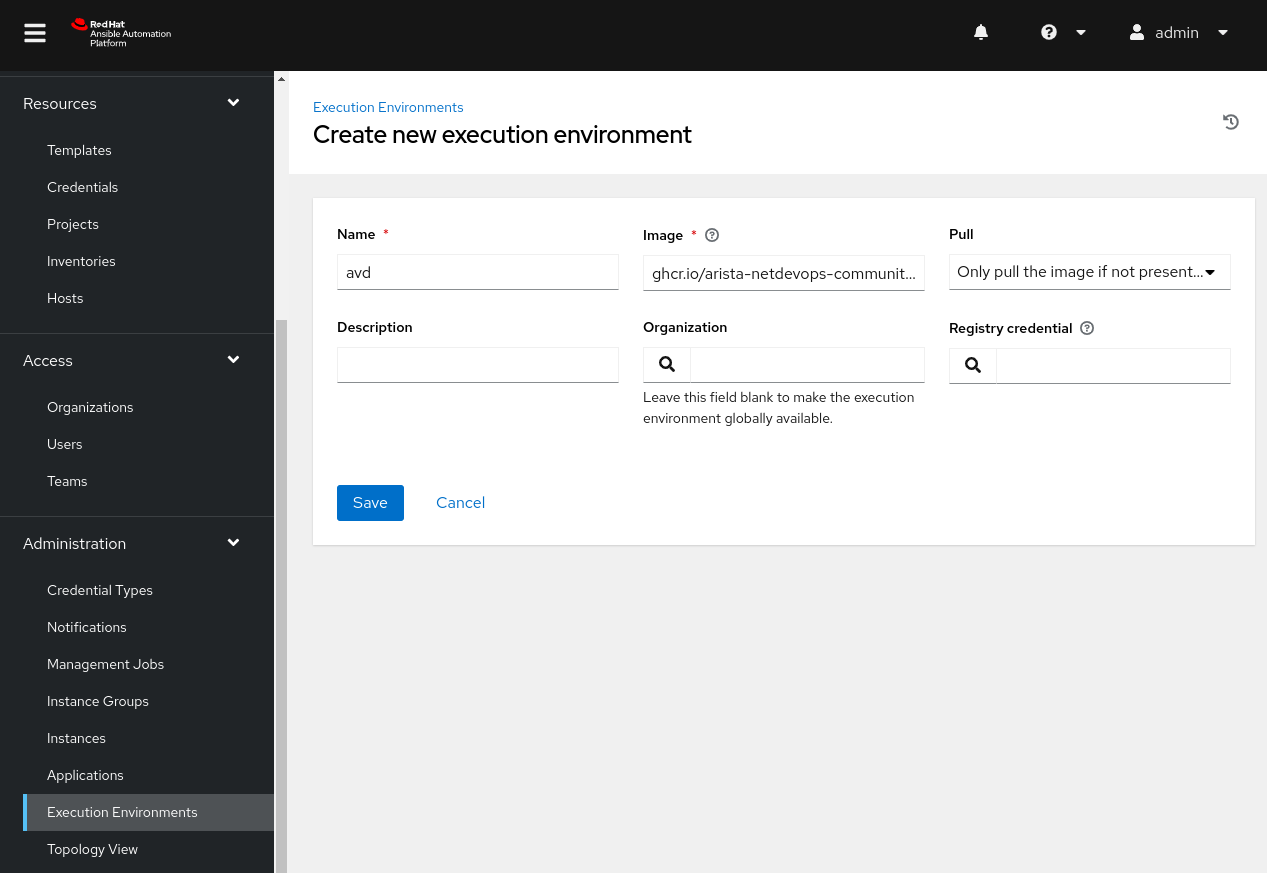
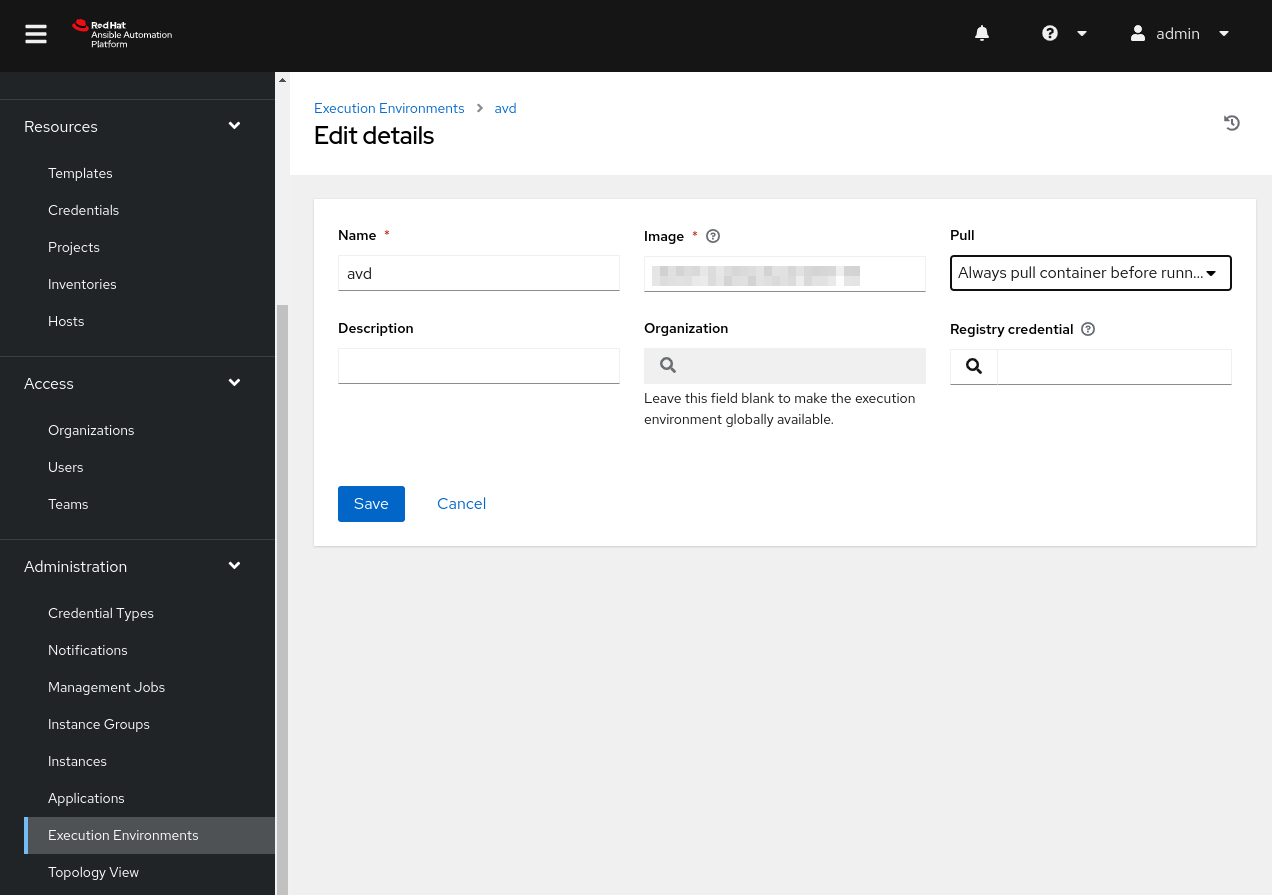
Updating index name, images, builder docs

diff --git a/ansible_collections/arista/avd/docs/getting-started/avd-aap.md b/ansible_collections/arista/avd/docs/getting-started/avd-aap.md
@@ -20,7 +20,7 @@ Please note, that this guide leverages AAP version 2.4. The workflows should be 
 
 ## Topology
 
-Our topology leverages two spines and four leaf nodes to create a layer three leaf spine topology. The topology is managed by Arista CloudVision Portal (CVP). There will also be an example of running any provisioning tasks directly on the EOS nodes. In our case, the EOS nodes are constantly streaming to CVP and gives us the ability to provision the nodes with CVP. AAP will act as our controller to communicate any updates to CVP, which can then push the updates to our topology.
+Our topology leverages two spines and four leaf nodes to create a layer three leaf spine topology. The topology is managed by Arista CloudVision Portal (CVP). In our case, the EOS nodes are constantly streaming to CVP and gives us the ability to provision the nodes with CVP. AAP will act as our controller to communicate any updates to CVP, which can then push the updates to our topology.
 
 ![Topology leveraging Ansible Automation Platform to communicate with CloudVision](../_media/getting-started/aap-avd/aap-cvp-eos.svg)
 
@@ -36,11 +36,113 @@ The image below provides an excellent overview of the AAP dashboard. From one pa
 
 ![AAP Dashboard](../_media/getting-started/aap-avd/aap-dashboardpng.png)
 
-## Execution environments
+## Execution environments with Ansible Builder
 
-Execution environments (EEs) are Red Hat's solution for managing project dependencies. In the past, we used Python virtual environments. The Python virtual environments had pros and cons, but EEs leverage containers to wrap all dependencies within a container. EEs make environments more portable and quicker to replicate between AAP nodes and standalone projects.
+Execution environments (EEs) are Red Hat's solution for managing project dependencies. In the past, we used Python virtual environments. The Python virtual environments had pros and cons, but EEs leverage containers to wrap all dependencies within a container. EEs make environments more portable and quicker to replicate between AAP nodes and standalone projects. We will go through an EE build together but it is highly recommended to build your own for your specific requirements.
 
-This example will leverage the AVD all-in-one container to get us up and running with the required software. You may use this environment or create your own. To learn more about working with execution environments, please see the [official documentation](https://docs.ansible.com/ansible/latest/getting_started_ee/index.html).
+### Ansible Builder
+
+Ansible Builder is a tool developed by the Ansible team to aid in creating EEs. Like any tool, there are a few requirements to get started with Ansible Builder.
+
+- A development machine with Python installed.
+- Ansible builder installed with `pip install ansible-builder`.
+- [Docker](https://docs.docker.com/engine/install/) or [Podman](https://podman.io/docs/installation) installed on the development machine.
+
+You can place the Ansible builder dependencies with your current project or leverage a separate project entirely for your EE builds. Please note that this example was created with version 4.7.1 of the AVD collection. Dependencies may change between versions.
+
+```shell
+❯ tree -I venv/
+.
+├── execution-environment.yml
+├── requirements.txt
+└── requirements.yml
+```
+
+=== "execution-environment.yml"
+
+    ```yaml
+    ---
+    version: 3 #(1)
+
+    images: #(2)
+      base_image:
+        name: quay.io/centos/centos:stream8
+
+    dependencies: #(3)
+      python_interpreter:
+        package_system: python311
+        python_path: /usr/bin/python3.11
+
+      ansible_core: #(4)
+        package_pip: ansible-core<2.17.0
+
+      ansible_runner: #(5)
+        package_pip: ansible-runner
+
+      galaxy: requirements.yml #(6)
+
+      python: requirements.txt #(7)
+
+    ```
+
+    1. We are leveraging Ansible Builder 3.x, which requires version 3 of the definition file. If you leverage an older version of Ansible Builder, you may need to use `version: 1`.
+    2. You may use any base container image. Please see the official documentation for more examples.
+    3. Specifying what version of Python we would like installed during the container build.
+    4. The version of ansible-core you need will greatly depend on your specific workflows.
+    5. The `ansible-runner` package is required when building an EE.
+    6. This is a pointer to any additional collections we want installed on our container.
+    7. This is a pointer to any additional Python packages we require for our workflow.
+
+=== "requirements.yml"
+
+    ```yaml
+    ---
+    collections: #(1)
+      - name: arista.avd
+        version: 4.7.1
+
+    ```
+
+    1. Installing the `arista.avd` collection for this workflow will ensure that any other required collections are also installed.
+
+=== "requirements.txt"
+
+    ```text
+    netaddr>=0.7.19
+    Jinja2>=3.0.0
+    treelib>=1.5.5
+    cvprac>=1.3.1
+    jsonschema>=4.5.1,<4.18
+    requests>=2.27.0
+    PyYAML>=6.0.0
+    md-toc>=7.1.0
+    deepmerge>=1.1.0
+    cryptography>=38.0.4
+    # No anta requirement until the eos_validate_state integration is out of preview.
+    # anta>=1.0.0
+    aristaproto>=0.1.1
+
+    ```
+
+    The Python dependencies were taken from the [collection installation](../../docs/installation/collection-installation.md#python-requirements-installation) instructions. Please update for your specific version of the `arista.avd` collection.
+
+#### Build the image
+
+The command below will use Ansible Builder to start building our custom EE. In this case, we leverage Podman as a container runtime and tag the image appropriately.
+
+```shell
+ansible-builder build --container-runtime podman -v 3 --tag username/image-name
+```
+
+Once complete, you can push the image to a public or private container registry.
+
+```shell
+podman push IMAGEID docker://docker.io/username/image-name
+```
+
+### Execution environments on AAP
+
+Once the image is located on our container registry, we are ready to add our custom EE to AAP.
 
 === "Click on EE"
 
@@ -56,11 +158,7 @@ This example will leverage the AVD all-in-one container to get us up and running
 
 === "EE - Save"
 
-    Give the EE an appropriate `Name` and full `Image` location. For the `Pull` option, this will vary if the EE is in active development and frequent changes are expected. Since our EE is ready, we will set this to `Only pull image of not present`. We are leveraging the AVD all-in-one container image, but you may use any EE for your specific project or build your own.
-
-    ```shell
-    ghcr.io/arista-netdevops-community/avd-all-in-one-container/avd-all-in-one:avd4.6.0_cvp3.10.1
-    ```
+    Give the EE an appropriate `Name` and full `Image` location. For the `Pull` option, this will vary if the EE is in active development and frequent changes are expected. Since our EE is in development, we will set this to `Always pull container before running`.
 
     ![Create EE](../_media/getting-started/aap-avd/create-ee.png)
 
@@ -123,9 +221,11 @@ At this point, we have an inventory with no hosts. This is where inventory sourc
     - In the new pane, click on `Add`.
     - A new pane is shown but similar to before, fill in an appropriate `Name` and select `Source from a Project` under `source`.
     - Under `Source details` click on the search icon under `Project`
-      - Select you newly created project
-    - Under `Source details`, if the `Inventory file` drop down does not show your inventory, feel free to enter it manually.
-    - Under `Update options` make sure `Update on launch` is checked.
+      - Select your newly created project
+    - Under `Source details`, if the `Inventory file` drop-down does not show your inventory, feel free to enter it manually.
+    - Under `Update options`:
+      - `Overwrite` is checked. Overwrite will ensure our inventory source manages additions and removal of hosts and groups.
+      - `Update on launch` is checked.
     - Scroll down and click `Save`.
 
     ![Create source](../_media/getting-started/aap-avd/create-source.png)
@@ -223,7 +323,7 @@ With most jobs, we need a way to authenticate to our CVP instance or EOS nodes. 
 
 ### Running the Template with CVP
 
-Below is an example of the playbook we are leveraging to build and deploy our configurations with CVP. The following section will have an alternate version that can be deployed directly to EOS nodes.
+Below is an example of the playbook we are leveraging to build and deploy our configurations with CVP.
 
 ```yaml
 ---
@@ -293,34 +393,8 @@ We have everything we need to run our job template now.
     ![CVP topology](../_media/getting-started/aap-avd/cvp-topo.png)
     ![CVP Change Controls](../_media/getting-started/aap-avd/cvp-cc.png)
 
-### Running the Template directly to EOS nodes
+## References
 
-![AAP with EOS topology](../_media/getting-started/aap-avd/aap-eos.svg)
-
-The AVD collection provides a role to deploy updates directly to EOS nodes. Assuming AAP has direct connectivity to your topology, we could use the following playbook to build and deploy and updates directly to EOS nodes.
-
-```yaml
----
-- name: Manage Arista EOS EVPN/VXLAN Configuration
-  hosts: ATD_FABRIC
-  connection: local
-  gather_facts: false
-  collections:
-    - arista.avd
-  vars:
-    fabric_dir_name: "{{ fabric_name }}"
-  tasks:
-
-    - name: Generate intended variables
-      import_role:
-        name: eos_designs
-
-    - name: Generate device intended config and documentation
-      import_role:
-        name: eos_cli_config_gen
-
-    - name: Deploy updates to EOS nodes
-      import_role:
-        name: eos_config_deploy_eapi
-
-```
+- [Ansible Builder documentation](https://ansible.readthedocs.io/projects/builder/en/latest/)
+- [Getting started with Execution Environments](https://docs.ansible.com/ansible/latest/getting_started_ee/index.html)
+- [Red Hat Ansible Automation Platform Installation Guide](https://access.redhat.com/documentation/en-us/red_hat_ansible_automation_platform/2.0-ea/html/red_hat_ansible_automation_platform_installation_guide/index)
